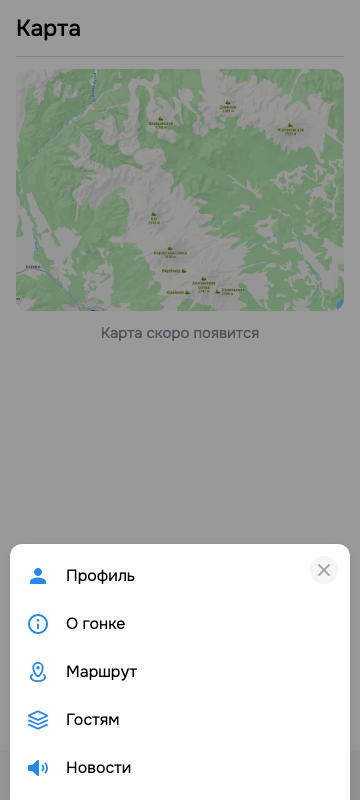
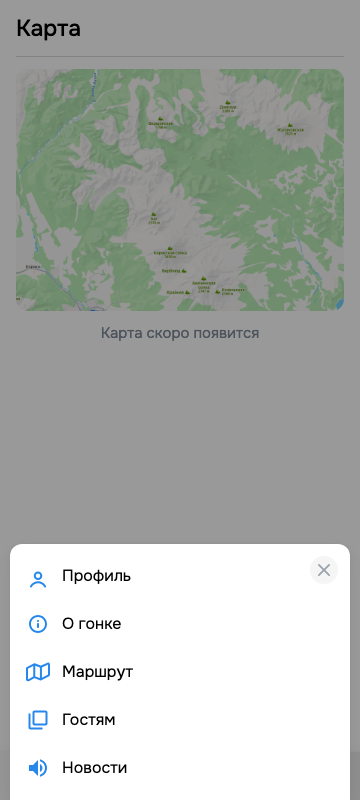
fix(v2): иконки меню Ещё из макета

Changed region(s): [[0.1833, 0.6875, 0.3667, 0.9062], [0.0611, 0.6875, 0.1528, 0.9688], [0.1833, 0.9375, 0.3667, 0.9688]]

diff --git a/src/components/MoreMenuSheet.tsx b/src/components/MoreMenuSheet.tsx
@@ -1,29 +1,23 @@
 import { useCallback, useEffect, useRef, useState } from 'react'
-import {
-  Icon24Cancel,
-  Icon24InfoCircleOutline,
-  Icon24LocationMapOutline,
-  Icon24SquareStackUpOutline,
-  Icon24User,
-  Icon24Volume,
-} from '@vkontakte/icons'
+import { Icon24Cancel } from '@vkontakte/icons'
 import { useRouteNavigator } from '@vkontakte/vk-mini-apps-router'
 import { Card, SimpleCell } from '@vkontakte/vkui'
 import { setMoreMenuReturn } from '../lib/moreMenuReturn.ts'
 import { PATH } from '../routes.ts'
+import { MoreMenuIcon, type MoreMenuIconId } from './MoreMenuIcon.tsx'
 
 type MoreMenuSheetProps = {
   open: boolean
   onClose: () => void
 }
 
-const items = [
-  { path: PATH.profile, label: 'Профиль', Icon: Icon24User },
-  { path: PATH.about, label: 'О гонке', Icon: Icon24InfoCircleOutline },
-  { path: PATH.route, label: 'Маршрут', Icon: Icon24LocationMapOutline },
-  { path: PATH.guests, label: 'Гостям', Icon: Icon24SquareStackUpOutline },
-  { path: PATH.news, label: 'Новости', Icon: Icon24Volume },
-] as const
+const items: { path: string; label: string; icon: MoreMenuIconId }[] = [
+  { path: PATH.profile, label: 'Профиль', icon: 'profile' },
+  { path: PATH.about, label: 'О гонке', icon: 'about' },
+  { path: PATH.route, label: 'Маршрут', icon: 'route' },
+  { path: PATH.guests, label: 'Гостям', icon: 'guests' },
+  { path: PATH.news, label: 'Новости', icon: 'news' },
+]
 
 const SWIPE_CLOSE_THRESHOLD_PX = 56
 
@@ -170,11 +164,11 @@ export function MoreMenuSheet({ open, onClose }: MoreMenuSheetProps) {
         <button type="button" className="more-menu-sheet__close" aria-label="Закрыть" onClick={requestClose}>
           <Icon24Cancel />
         </button>
-        {items.map(({ path, label, Icon }) => (
+        {items.map(({ path, label, icon }) => (
           <SimpleCell
             key={path}
             className="more-menu-sheet__cell"
-            before={<Icon />}
+            before={<MoreMenuIcon id={icon} />}
             onClick={() => openSection(path)}
           >
             {label}

diff --git a/src/components/MoreMenuIcon.tsx b/src/components/MoreMenuIcon.tsx
@@ -1,0 +1,29 @@
+import aboutSvg from '../assets/icons/more/about.svg?raw'
+import guestsSvg from '../assets/icons/more/guests.svg?raw'
+import newsSvg from '../assets/icons/more/news.svg?raw'
+import profileSvg from '../assets/icons/more/profile.svg?raw'
+import routeSvg from '../assets/icons/more/route.svg?raw'
+
+export type MoreMenuIconId = 'profile' | 'about' | 'route' | 'guests' | 'news'
+
+const icons: Record<MoreMenuIconId, string> = {
+  profile: profileSvg,
+  about: aboutSvg,
+  route: routeSvg,
+  guests: guestsSvg,
+  news: newsSvg,
+}
+
+type MoreMenuIconProps = {
+  id: MoreMenuIconId
+}
+
+export function MoreMenuIcon({ id }: MoreMenuIconProps) {
+  return (
+    <span
+      className="more-menu-sheet__icon"
+      aria-hidden
+      dangerouslySetInnerHTML={{ __html: icons[id] }}
+    />
+  )
+}

diff --git a/src/index.css b/src/index.css
@@ -730,6 +730,30 @@ body {
   display: block;
 }
 
+.more-menu-sheet__icon {
+  display: flex;
+  align-items: center;
+  justify-content: center;
+  width: 24px;
+  height: 24px;
+  flex: none;
+  color: var(--vkui--color_icon_accent);
+}
+
+.more-menu-sheet__icon svg {
+  display: block;
+  width: 24px;
+  height: 24px;
+}
+
+.more-menu-sheet__cell .vkuiSimpleCell__before {
+  display: flex;
+  align-items: center;
+  justify-content: center;
+  width: 24px;
+  min-width: 24px;
+}
+
 .more-menu-sheet__cell:focus,
 .more-menu-sheet__cell:focus-visible {
   background: var(--vkui--color_background_modal) !important;

diff --git a/src/env.d.ts b/src/env.d.ts
@@ -7,3 +7,8 @@ interface ImportMetaEnv {
 interface ImportMeta {
   readonly env: ImportMetaEnv
 }
+
+declare module '*.svg?raw' {
+  const content: string
+  export default content
+}
